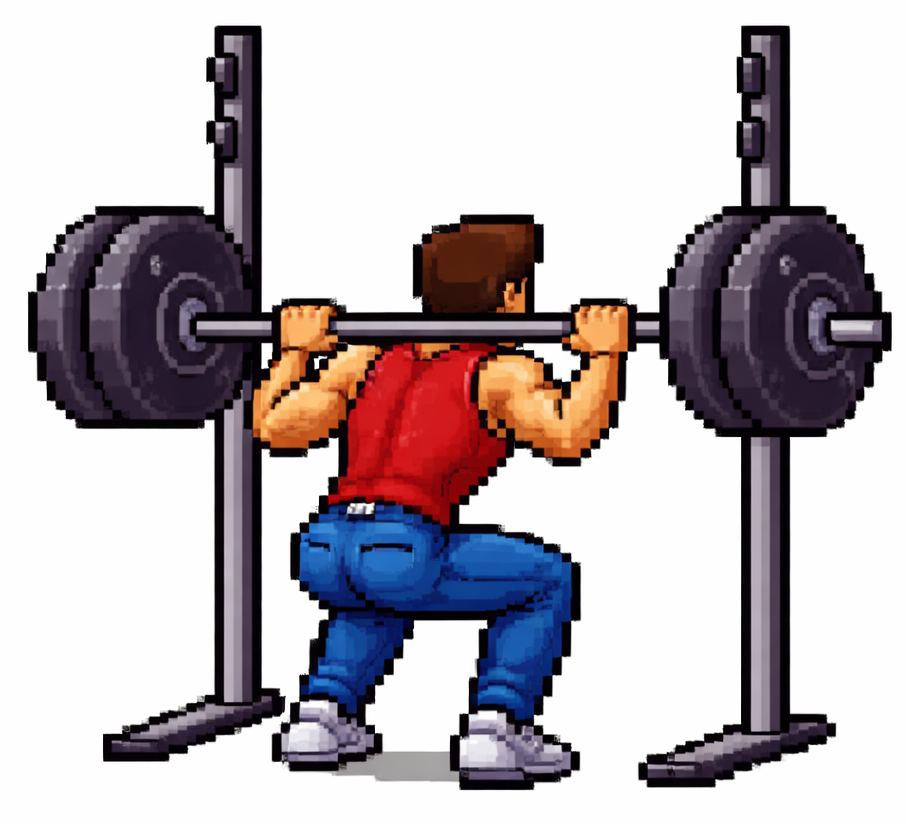
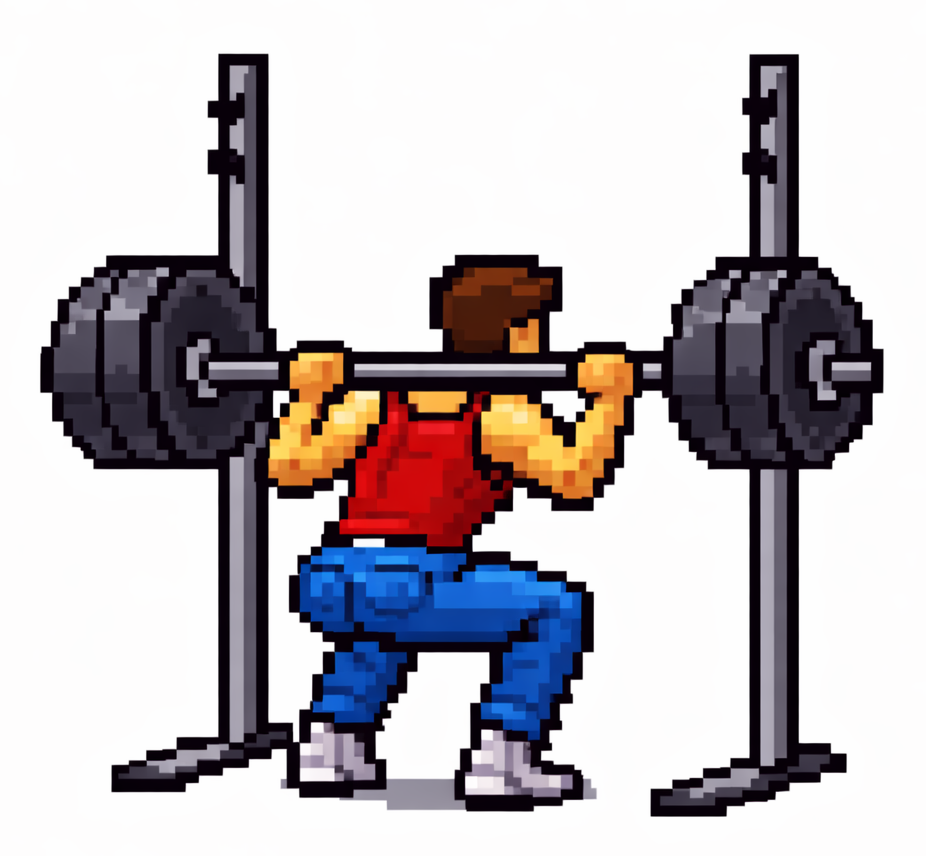
updated workout card to have recovery image. updated images for all days.

diff --git a/src/app/mine/cards/WorkoutCard.tsx b/src/app/mine/cards/WorkoutCard.tsx
@@ -71,6 +71,8 @@ const WorkoutCard = () => {
             setImageSrc("/mine/legs.png");
         } else if (todayWorkout?.title.includes("Cardio")) {
             setImageSrc("/mine/cardio.png");
+        } else if (todayWorkout?.title.includes("Recovery")) {
+            setImageSrc("/mine/recovery.png");
         }
     }, [workoutData]);
 
